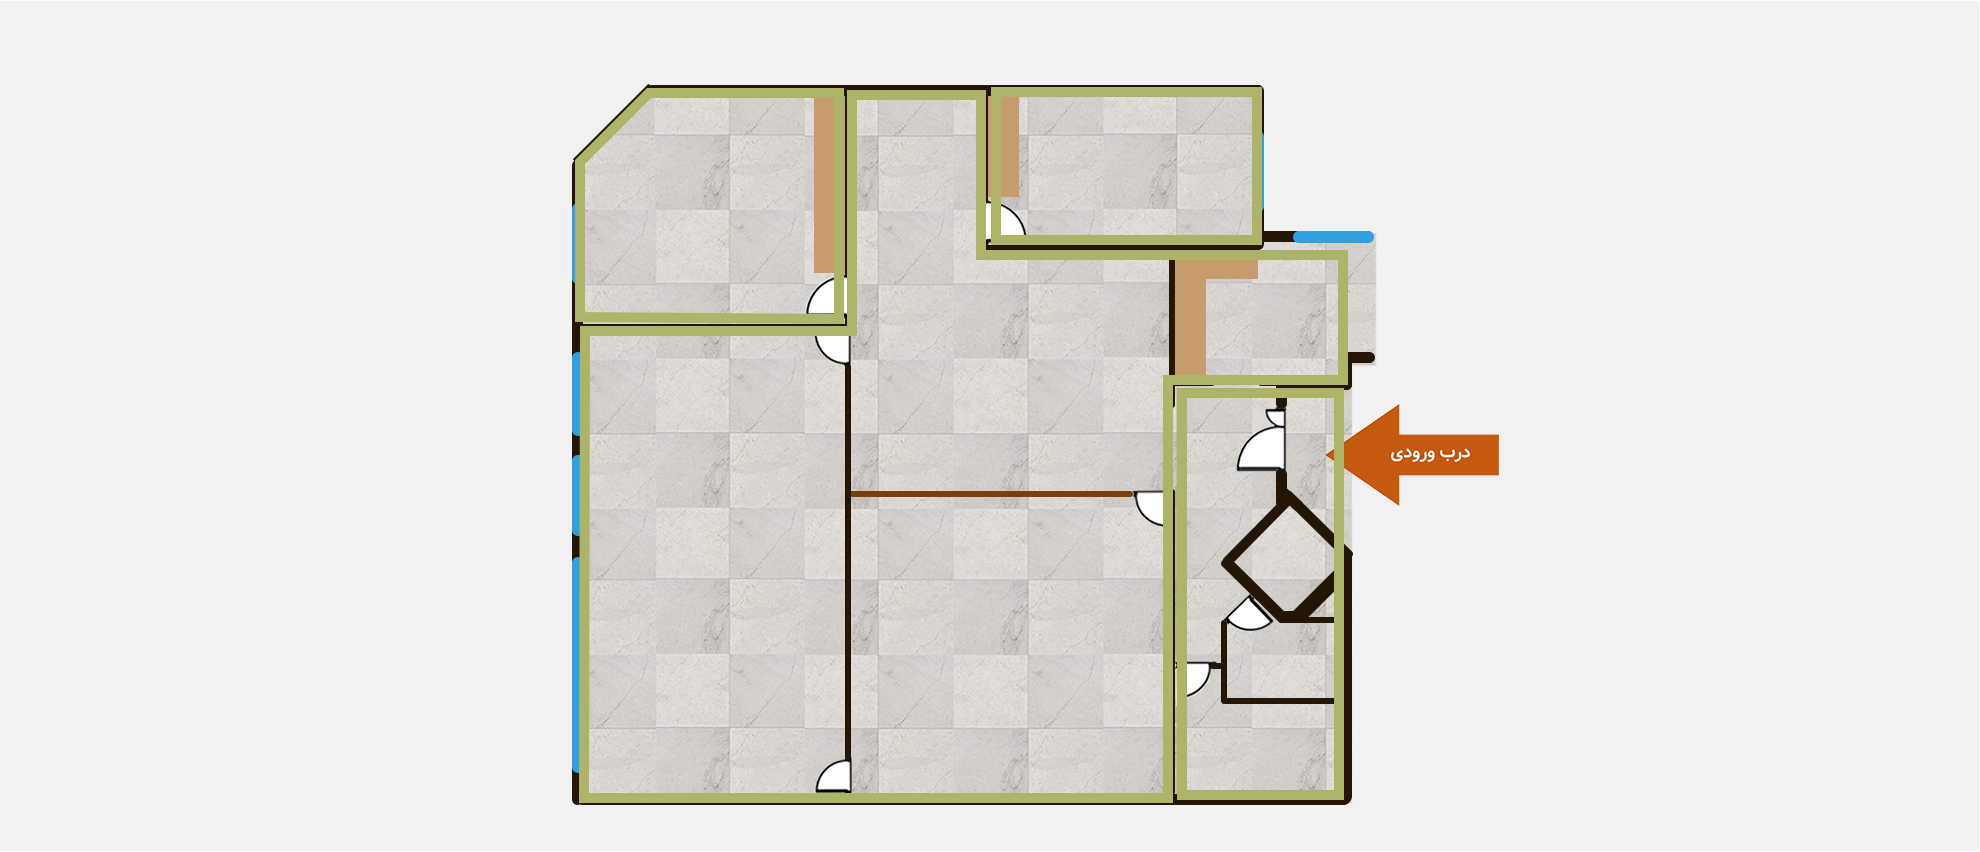
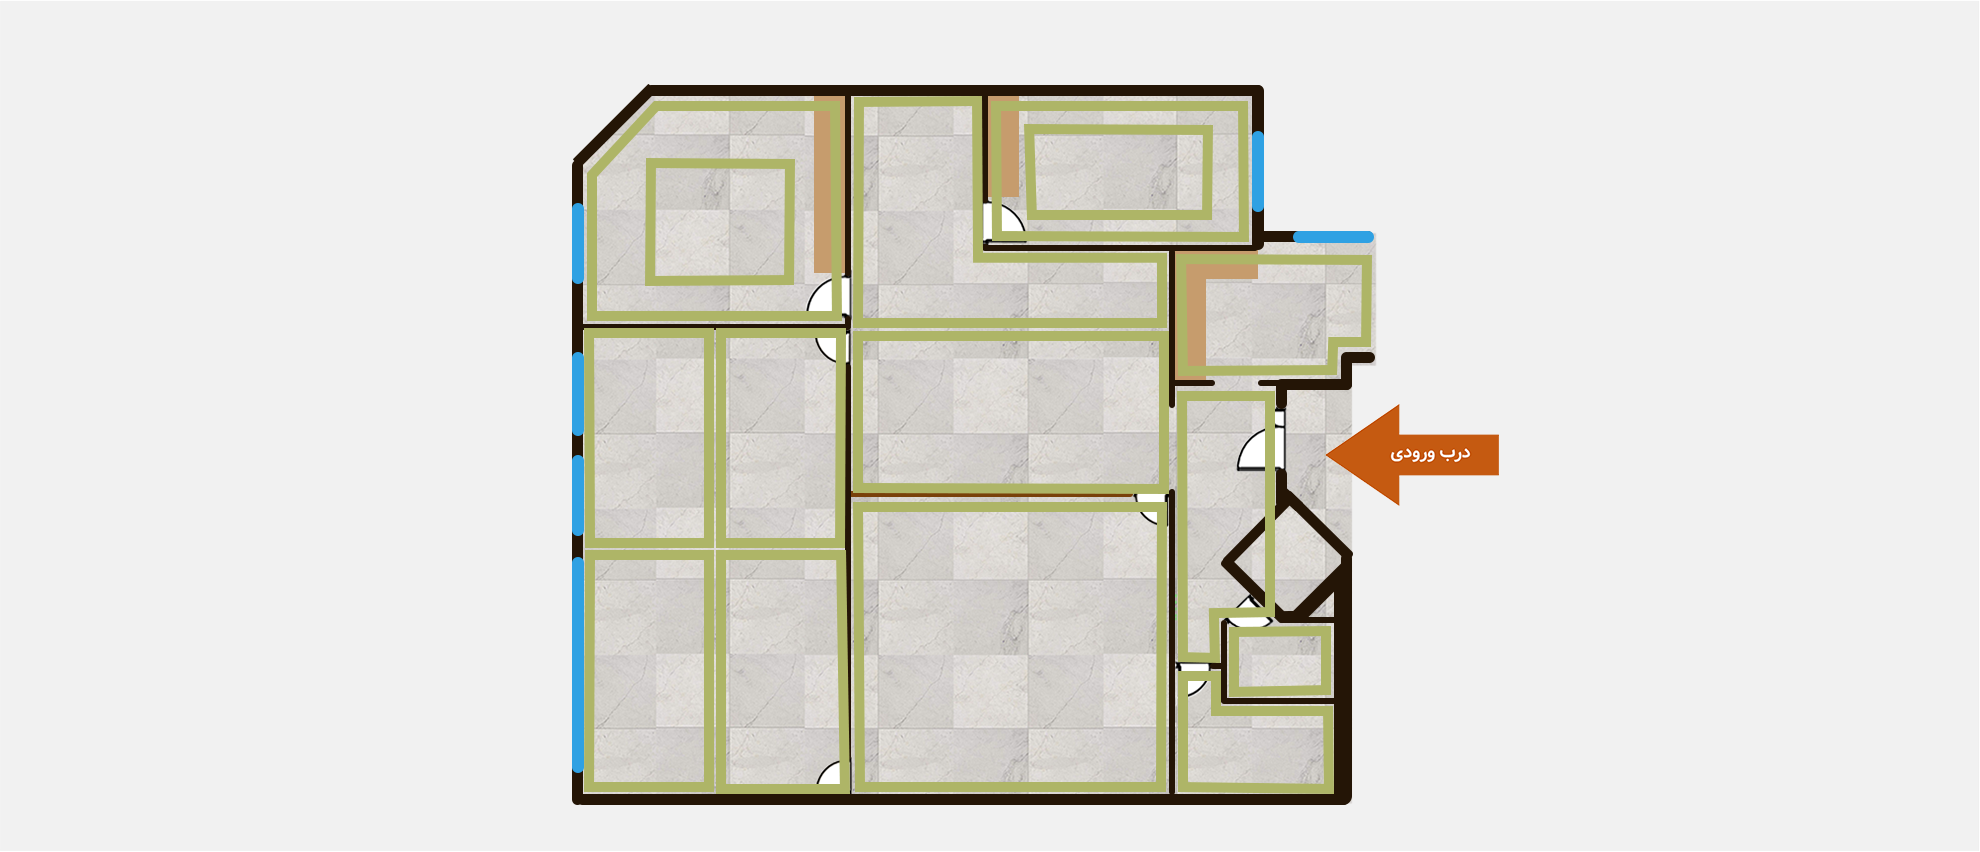
v1.4.0

Changed region(s): [[0.2773, 0.0915, 0.7086, 0.946]]

diff --git a/Floor 5/Floor-Lamp-L.html b/Floor 5/Floor-Lamp-L.html
@@ -14,22 +14,23 @@
         <div class="position-div" >
             <img class="map cndition-img" src="Map-L-Final-floor5-Big.png" usemap="#map">
             <map name="map">
-                <area id="map1" shape="poly" coords="858,336,856,101,974,102,975,255,1342,261,1342,380,1167,379,1166,791,585,792,585,337" href="#" class="group" data-maphilight='{"strokeColor":"e4f908","strokeWidth":15,"fillColor":"ecf494","fillOpacity":0.6}'>
-                <area id="map2" shape="rect" coords="999,100,1251,237" href="#" class="group" data-maphilight='{"strokeColor":"e4f908","strokeWidth":15,"fillColor":"ecf494","fillOpacity":0.6}'>
-                <area id="map3" shape="poly" coords="582,161,648,95,834,95,834,316,582,316" href="#" class="group" data-maphilight='{"strokeColor":"e4f908","strokeWidth":15,"fillColor":"ecf494","fillOpacity":0.6}'>
-                <area id="map4" shape="rect" coords="1176,392,1342,790" href="#" class="group" data-maphilight='{"strokeColor":"e4f908","strokeWidth":15,"fillColor":"ecf494","fillOpacity":0.6}'>
+                <area id="map1" class="group" href="#" coords="589,333,708,541" shape="rect" data-maphilight='{"strokeColor":"e4f908","strokeWidth":15,"fillColor":"ecf494","fillOpacity":0.6}'>
+                <area id="map2" class="group" href="#" coords="721,333,839,540" shape="rect" data-maphilight='{"strokeColor":"e4f908","strokeWidth":15,"fillColor":"ecf494","fillOpacity":0.6}'>
+                <area id="map3" class="group" href="#" coords="591,557,708,788" shape="rect" data-maphilight='{"strokeColor":"e4f908","strokeWidth":15,"fillColor":"ecf494","fillOpacity":0.6}'>
+                <area id="map4" class="group" href="#" coords="723,556,840,789" shape="rect" data-maphilight='{"strokeColor":"e4f908","strokeWidth":15,"fillColor":"ecf494","fillOpacity":0.6}'>
+                <area id="map5" class="group" href="#" coords="859,510,1159,788" shape="rect" data-maphilight='{"strokeColor":"e4f908","strokeWidth":15,"fillColor":"ecf494","fillOpacity":0.6}'>
+                <area id="map6" class="group" href="#" coords="1237,632,1324,690" shape="rect" data-maphilight='{"strokeColor":"e4f908","strokeWidth":15,"fillColor":"ecf494","fillOpacity":0.6}'>
+                <area id="map7" class="group" href="#" coords="859,338,1162,490" shape="rect" data-maphilight='{"strokeColor":"e4f908","strokeWidth":15,"fillColor":"ecf494","fillOpacity":0.6}'>
+                <area id="map8" class="group" href="#" coords="653,167,789,278" shape="rect" data-maphilight='{"strokeColor":"e4f908","strokeWidth":15,"fillColor":"ecf494","fillOpacity":0.6}'>
+                <area id="map9" class="group" href="#" coords="1033,133,1207,214" shape="rect" data-maphilight='{"strokeColor":"e4f908","strokeWidth":15,"fillColor":"ecf494","fillOpacity":0.6}'>
+                <area id="map10" class="group" href="#" coords="859,105,972,105,976,262,1161,262,1161,324,859,322" shape="poly" data-maphilight='{"strokeColor":"e4f908","strokeWidth":15,"fillColor":"ecf494","fillOpacity":0.6}'>
+                <area id="map11" class="group" href="#" coords="1184,261,1362,263,1362,340,1333,340,1331,370,1184,370" shape="poly" data-maphilight='{"strokeColor":"e4f908","strokeWidth":15,"fillColor":"ecf494","fillOpacity":0.6}'>
+                <area id="map12" class="group" href="#" coords="1184,398,1269,398,1267,610,1214,610,1214,657,1184,657" shape="poly" data-maphilight='{"strokeColor":"e4f908","strokeWidth":15,"fillColor":"ecf494","fillOpacity":0.6}'>
+                <area id="map13" class="group" href="#" coords="1182,678,1216,678,1214,712,1326,712,1326,789,1180,789" shape="poly" data-maphilight='{"strokeColor":"e4f908","strokeWidth":15,"fillColor":"ecf494","fillOpacity":0.6}'>
+                <area id="map14" class="group" href="#" coords="592,314,592,178,647,122,648,163,648,283,795,283,795,159,650,160,650,112,833,110,835,313,647,315" shape="poly" data-maphilight='{"strokeColor":"e4f908","strokeWidth":15,"fillColor":"ecf494","fillOpacity":0.6}'>
+                <area id="map15" class="group" href="#" coords="1206,215,1210,131,1029,128,1028,213,1029,238,996,240,996,107,1244,107,1244,240,1029,238,1030,215" shape="poly" data-maphilight='{"strokeColor":"e4f908","strokeWidth":15,"fillColor":"ecf494","fillOpacity":0.6}'>
             </map>
         </div>
-
-        <!-- create line round map -->
-        <!-- <script>
-            var areas = document.getElementsByTagName( 'area' );
-            for( var index = 0; index < areas.length; index++ ) {    
-                areas[index].addEventListener( 'mouseover', function () {this.focus();}, false );
-                areas[index].addEventListener( 'mouseout', function () {this.blur();}, false );
-            };
-        </script> 
-        <script src="js/jquery.min.js"></script> -->
 
         <script type="text/javascript" src="js/imageMapResizer.min.js"></script>
         <script type="text/javascript">
@@ -59,80 +60,273 @@
                     $('#map1').data('maphilight', data).trigger('alwaysOn.maphilight');
                 });
             });
-            </script>
+        </script>
 
-            <script>
-                $(function() {
-                    $('.map').maphilight({
-                        fillColor: '008800'
-                    });
-                    // $('#hilightlink').mouseover(function(e) {
-                    //     $('#square2').mouseover();
-                    // }).mouseout(function(e) {
-                    //     $('#square2').mouseout();
-                    // }).click(function(e) { e.preventDefault(); });
-                    $('#map2link').click(function(e) {
-                        e.preventDefault();
-                        var data = $('#map2').data('maphilight') || {};
-                        data.neverOn = !data.neverOn;
-                        $('#map2').data('maphilight', data);
-                    });
-                    $('#map2,#map2link2').click(function(e) {
-                        e.preventDefault();
-                        var data = $('#map2').mouseout().data('maphilight') || {};
-                        data.alwaysOn = !data.alwaysOn;
-                        $('#map2').data('maphilight', data).trigger('alwaysOn.maphilight');
-                    });
+        <script>
+            $(function() {
+                $('.map').maphilight({
+                    fillColor: '008800'
                 });
-                </script>
-                <script>
-                    $(function() {
-                        $('.map').maphilight({
-                            fillColor: '008800'
-                        });
-                        // $('#hilightlink').mouseover(function(e) {
-                        //     $('#square2').mouseover();
-                        // }).mouseout(function(e) {
-                        //     $('#square2').mouseout();
-                        // }).click(function(e) { e.preventDefault(); });
-                        $('#map3link').click(function(e) {
-                            e.preventDefault();
-                            var data = $('#map3').data('maphilight') || {};
-                            data.neverOn = !data.neverOn;
-                            $('#map3').data('maphilight', data);
-                        });
-                        $('#map3,#map3link2').click(function(e) {
-                            e.preventDefault();
-                            var data = $('#map3').mouseout().data('maphilight') || {};
-                            data.alwaysOn = !data.alwaysOn;
-                            $('#map3').data('maphilight', data).trigger('alwaysOn.maphilight');
-                        });
-                    });
-                    </script>
-                    <script>
-                        $(function() {
-                            $('.map').maphilight({
-                                fillColor: '008800'
-                            });
-                            // $('#hilightlink').mouseover(function(e) {
-                            //     $('#square2').mouseover();
-                            // }).mouseout(function(e) {
-                            //     $('#square2').mouseout();
-                            // }).click(function(e) { e.preventDefault(); });
-                            $('#map1link').click(function(e) {
-                                e.preventDefault();
-                                var data = $('#map4').data('maphilight') || {};
-                                data.neverOn = !data.neverOn;
-                                $('#map4').data('maphilight', data);
-                            });
-                            $('#map4,#map1link2').click(function(e) {
-                                e.preventDefault();
-                                var data = $('#map4').mouseout().data('maphilight') || {};
-                                data.alwaysOn = !data.alwaysOn;
-                                $('#map4').data('maphilight', data).trigger('alwaysOn.maphilight');
-                            });
-                        });
-                        </script>
-            
+                $('#map2link').click(function(e) {
+                    e.preventDefault();
+                    var data = $('#map2').data('maphilight') || {};
+                    data.neverOn = !data.neverOn;
+                    $('#map2').data('maphilight', data);
+                });
+                $('#map2,#map2link2').click(function(e) {
+                    e.preventDefault();
+                    var data = $('#map2').mouseout().data('maphilight') || {};
+                    data.alwaysOn = !data.alwaysOn;
+                    $('#map2').data('maphilight', data).trigger('alwaysOn.maphilight');
+                });
+            });
+        </script>
+        <script>
+            $(function() {
+                $('.map').maphilight({
+                    fillColor: '008800'
+                });
+                $('#map3link').click(function(e) {
+                    e.preventDefault();
+                    var data = $('#map3').data('maphilight') || {};
+                    data.neverOn = !data.neverOn;
+                    $('#map3').data('maphilight', data);
+                });
+                $('#map3,#map3link2').click(function(e) {
+                    e.preventDefault();
+                    var data = $('#map3').mouseout().data('maphilight') || {};
+                    data.alwaysOn = !data.alwaysOn;
+                    $('#map3').data('maphilight', data).trigger('alwaysOn.maphilight');
+                });
+            });
+        </script>
+        <script>
+            $(function() {
+                $('.map').maphilight({
+                    fillColor: '008800'
+                });
+                $('#map4link').click(function(e) {
+                    e.preventDefault();
+                    var data = $('#map4').data('maphilight') || {};
+                    data.neverOn = !data.neverOn;
+                    $('#map4').data('maphilight', data);
+                });
+                $('#map4,#map1link2').click(function(e) {
+                    e.preventDefault();
+                    var data = $('#map4').mouseout().data('maphilight') || {};
+                    data.alwaysOn = !data.alwaysOn;
+                    $('#map4').data('maphilight', data).trigger('alwaysOn.maphilight');
+                });
+            });
+        </script>
+        <script>
+            $(function() {
+                $('.map').maphilight({
+                    fillColor: '008800'
+                });
+                $('#map5link').click(function(e) {
+                    e.preventDefault();
+                    var data = $('#map5').data('maphilight') || {};
+                    data.neverOn = !data.neverOn;
+                    $('#map5').data('maphilight', data);
+                });
+                $('#map5,#map1link2').click(function(e) {
+                    e.preventDefault();
+                    var data = $('#map5').mouseout().data('maphilight') || {};
+                    data.alwaysOn = !data.alwaysOn;
+                    $('#map5').data('maphilight', data).trigger('alwaysOn.maphilight');
+                });
+            });
+        </script>
+        <script>
+            $(function() {
+                $('.map').maphilight({
+                    fillColor: '008800'
+                });
+                $('#map6link').click(function(e) {
+                    e.preventDefault();
+                    var data = $('#map6').data('maphilight') || {};
+                    data.neverOn = !data.neverOn;
+                    $('#map6').data('maphilight', data);
+                });
+                $('#map6,#map1link2').click(function(e) {
+                    e.preventDefault();
+                    var data = $('#map6').mouseout().data('maphilight') || {};
+                    data.alwaysOn = !data.alwaysOn;
+                    $('#map6').data('maphilight', data).trigger('alwaysOn.maphilight');
+                });
+            });
+        </script>
+        <script>
+            $(function() {
+                $('.map').maphilight({
+                    fillColor: '008800'
+                });
+                $('#map7link').click(function(e) {
+                    e.preventDefault();
+                    var data = $('#map7').data('maphilight') || {};
+                    data.neverOn = !data.neverOn;
+                    $('#map7').data('maphilight', data);
+                });
+                $('#map7,#map1link2').click(function(e) {
+                    e.preventDefault();
+                    var data = $('#map7').mouseout().data('maphilight') || {};
+                    data.alwaysOn = !data.alwaysOn;
+                    $('#map7').data('maphilight', data).trigger('alwaysOn.maphilight');
+                });
+            });
+        </script>
+        <script>
+            $(function() {
+                $('.map').maphilight({
+                    fillColor: '008800'
+                });
+                $('#map8link').click(function(e) {
+                    e.preventDefault();
+                    var data = $('#map8').data('maphilight') || {};
+                    data.neverOn = !data.neverOn;
+                    $('#map8').data('maphilight', data);
+                });
+                $('#map8,#map1link2').click(function(e) {
+                    e.preventDefault();
+                    var data = $('#map8').mouseout().data('maphilight') || {};
+                    data.alwaysOn = !data.alwaysOn;
+                    $('#map8').data('maphilight', data).trigger('alwaysOn.maphilight');
+                });
+            });
+        </script>
+        <script>
+            $(function() {
+                $('.map').maphilight({
+                    fillColor: '008800'
+                });
+                $('#map9link').click(function(e) {
+                    e.preventDefault();
+                    var data = $('#map9').data('maphilight') || {};
+                    data.neverOn = !data.neverOn;
+                    $('#map9').data('maphilight', data);
+                });
+                $('#map9,#map1link2').click(function(e) {
+                    e.preventDefault();
+                    var data = $('#map9').mouseout().data('maphilight') || {};
+                    data.alwaysOn = !data.alwaysOn;
+                    $('#map9').data('maphilight', data).trigger('alwaysOn.maphilight');
+                });
+            });
+        </script>
+        <script>
+            $(function() {
+                $('.map').maphilight({
+                    fillColor: '008800'
+                });
+                $('#map10link').click(function(e) {
+                    e.preventDefault();
+                    var data = $('#map10').data('maphilight') || {};
+                    data.neverOn = !data.neverOn;
+                    $('#map10').data('maphilight', data);
+                });
+                $('#map10,#map1link2').click(function(e) {
+                    e.preventDefault();
+                    var data = $('#map10').mouseout().data('maphilight') || {};
+                    data.alwaysOn = !data.alwaysOn;
+                    $('#map10').data('maphilight', data).trigger('alwaysOn.maphilight');
+                });
+            });
+        </script>
+        <script>
+            $(function() {
+                $('.map').maphilight({
+                    fillColor: '008800'
+                });
+                $('#map11link').click(function(e) {
+                    e.preventDefault();
+                    var data = $('#map11').data('maphilight') || {};
+                    data.neverOn = !data.neverOn;
+                    $('#map11').data('maphilight', data);
+                });
+                $('#map11,#map1link2').click(function(e) {
+                    e.preventDefault();
+                    var data = $('#map11').mouseout().data('maphilight') || {};
+                    data.alwaysOn = !data.alwaysOn;
+                    $('#map11').data('maphilight', data).trigger('alwaysOn.maphilight');
+                });
+            });
+        </script>
+        <script>
+            $(function() {
+                $('.map').maphilight({
+                    fillColor: '008800'
+                });
+                $('#map12link').click(function(e) {
+                    e.preventDefault();
+                    var data = $('#map12').data('maphilight') || {};
+                    data.neverOn = !data.neverOn;
+                    $('#map12').data('maphilight', data);
+                });
+                $('#map12,#map1link2').click(function(e) {
+                    e.preventDefault();
+                    var data = $('#map12').mouseout().data('maphilight') || {};
+                    data.alwaysOn = !data.alwaysOn;
+                    $('#map12').data('maphilight', data).trigger('alwaysOn.maphilight');
+                });
+            });
+        </script>
+        <script>
+            $(function() {
+                $('.map').maphilight({
+                    fillColor: '008800'
+                });
+                $('#map13link').click(function(e) {
+                    e.preventDefault();
+                    var data = $('#map13').data('maphilight') || {};
+                    data.neverOn = !data.neverOn;
+                    $('#map13').data('maphilight', data);
+                });
+                $('#map13,#map1link2').click(function(e) {
+                    e.preventDefault();
+                    var data = $('#map13').mouseout().data('maphilight') || {};
+                    data.alwaysOn = !data.alwaysOn;
+                    $('#map13').data('maphilight', data).trigger('alwaysOn.maphilight');
+                });
+            });
+        </script>
+        <script>
+            $(function() {
+                $('.map').maphilight({
+                    fillColor: '008800'
+                });
+                $('#map14link').click(function(e) {
+                    e.preventDefault();
+                    var data = $('#map14').data('maphilight') || {};
+                    data.neverOn = !data.neverOn;
+                    $('#map14').data('maphilight', data);
+                });
+                $('#map14,#map1link2').click(function(e) {
+                    e.preventDefault();
+                    var data = $('#map14').mouseout().data('maphilight') || {};
+                    data.alwaysOn = !data.alwaysOn;
+                    $('#map14').data('maphilight', data).trigger('alwaysOn.maphilight');
+                });
+            });
+        </script>
+        <script>
+            $(function() {
+                $('.map').maphilight({
+                    fillColor: '008800'
+                });
+                $('#map15link').click(function(e) {
+                    e.preventDefault();
+                    var data = $('#map15').data('maphilight') || {};
+                    data.neverOn = !data.neverOn;
+                    $('#map15').data('maphilight', data);
+                });
+                $('#map15,#map1link2').click(function(e) {
+                    e.preventDefault();
+                    var data = $('#map15').mouseout().data('maphilight') || {};
+                    data.alwaysOn = !data.alwaysOn;
+                    $('#map15').data('maphilight', data).trigger('alwaysOn.maphilight');
+                });
+            });
+        </script>
     </body>
 </html>
